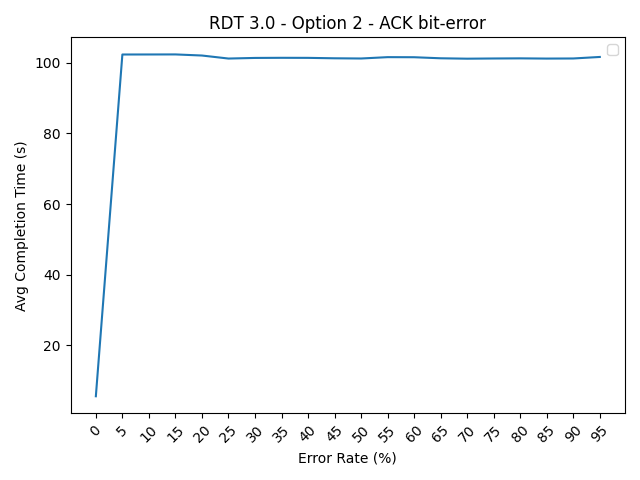
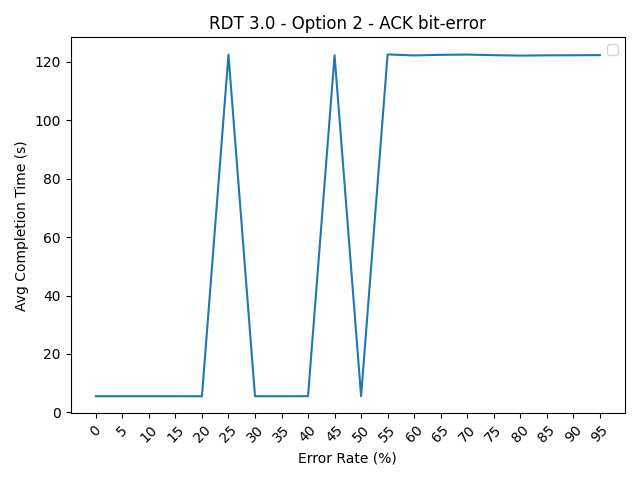
run 2 complete

diff --git a/project_folders/4_phase/src/main.py b/project_folders/4_phase/src/main.py
@@ -28,8 +28,8 @@ import plotter
 def run1():
     # Run Scenario 1 - No bit-error
     helper.main_log_print("Starting Scenario 1")
-    tx = sender()
-    rx = receiver()
+    tx = sender(helper.N)
+    rx = receiver(helper.N)
     tx_thread = threading.Thread(target=tx.run_tx_sc1)
     rx_thread = threading.Thread(target=rx.run_rx_sc1)
     rx_thread.start()
@@ -47,8 +47,8 @@ def run1():
 def run2(error_rate=0.0):
     # Run Scenario 2 - Ack packet bit-error
     helper.main_log_print("Starting Scenario 2")
-    tx2 = sender()
-    rx2 = receiver()
+    tx2 = sender(helper.N)
+    rx2 = receiver(helper.N)
     tx_thread = threading.Thread(target=tx2.run_tx_sc2, args=(error_rate,))
     rx_thread = threading.Thread(target=rx2.run_rx_sc2)
     rx_thread.start()
@@ -66,8 +66,8 @@ def run2(error_rate=0.0):
 def run3(error_rate=0.0):
     # Run Scenario 3 - Data packet bit-error
     helper.main_log_print("Starting Scenario 3 ")
-    tx3 = sender()
-    rx3 = receiver()
+    tx3 = sender(helper.N)
+    rx3 = receiver(helper.N)
     tx_thread = threading.Thread(target=tx3.run_tx_sc3)
     rx_thread = threading.Thread(target=rx3.run_rx_sc3, args=(error_rate,))
     rx_thread.start()
@@ -85,8 +85,8 @@ def run3(error_rate=0.0):
 def run4(error_rate=0.0):
     # Run Scenario 4 
     helper.main_log_print("Starting Scenario 4 ")
-    tx4 = sender()
-    rx4 = receiver()
+    tx4 = sender(helper.N)
+    rx4 = receiver(helper.N)
     tx_thread = threading.Thread(target=tx4.run_tx_sc4, args=(error_rate,))
     rx_thread = threading.Thread(target=rx4.run_rx_sc4)
     rx_thread.start()
@@ -104,8 +104,8 @@ def run4(error_rate=0.0):
 def run5(error_rate=0.0):
     # Run Scenario 5 - Data packet loss
     helper.main_log_print("Starting Scenario 5")
-    tx5 = sender()
-    rx5 = receiver()
+    tx5 = sender(helper.N)
+    rx5 = receiver(helper.N)
     tx_thread = threading.Thread(target=tx5.run_tx_sc5)
     rx_thread = threading.Thread(target=rx5.run_rx_sc5, args=(error_rate,))
     rx_thread.start()
@@ -120,12 +120,24 @@ def run5(error_rate=0.0):
     tx5.sender_socket.close()
     time.sleep(0.5)
 
+def run_recovery_demo():
+    # R13: demonstrate Phase 4 with and without loss recovery active, using Option 5
+    # (data packet loss). At 0% loss the recovery path never triggers; at 30% loss the
+    # countdown timer + Go-Back-N retransmit kick in. Both must reconstruct the image.
+    helper.main_log_print("Recovery demo: WITHOUT recovery (0% loss)")
+    run5(0.0)
+    helper.main_log_print("Recovery demo: WITH recovery (30% loss)")
+    run5(0.30)
+
 """ Entry """
 def main():
     # Clear output files
     with open(helper.log_path, 'w') as log_file:
         pass
     helper.main_log_print("Clearing all output logs")
+
+    # R17: silence per-packet [SENDER]/[RECEIVER] debug logs during timing sweeps
+    helper.verbose_packet_logs = False
 
     ## Run each scenario 5 times with their corresponding rates
     rates = [0.0, 0.05, 0.10, 0.15, 0.20, 0.25, 0.30, 0.35, 0.40, 
@@ -160,8 +172,11 @@ def main():
                     run5(error_rate)
                 plotter.generate_scenario_plot()
                 break
+            case "demo":
+                run_recovery_demo()
+                break
             case "test":
-                run1()
+                run2()
                 break
             case _: 
                 print("Invalid scenario number, try again")

diff --git a/project_folders/4_phase/src/receiver.py b/project_folders/4_phase/src/receiver.py
@@ -13,17 +13,23 @@ import helper
 import time
 
 class RECEIVER:
-    def __init__(self):
+    def __init__(self, N=None):
         # Self Vars
         self.full_pic = []
         self.expected_seq = 0
+
+        # Window size (the basic GBN receiver doesn't buffer out-of-order packets,
+        # but N is accepted for symmetry with the sender / window-size sweep)
+        self.N = N if N is not None else helper.N
 
         # Setup sockets 
         self.rx_socket = socket(AF_INET, SOCK_DGRAM)
         self.rx_socket.bind(('localhost', helper.receiver_port))
 
     def log_print(self, message):
-        # Writes a message to the output log
+        # Writes a message to the output log (silenced during timing runs, R17)
+        if not helper.verbose_packet_logs:
+            return
         with open(helper.log_path, 'a') as log_file:
             log_file.write(f"[RECEIVER] {message}\n")
 

diff --git a/project_folders/4_phase/src/sender.py b/project_folders/4_phase/src/sender.py
@@ -33,7 +33,9 @@ class SENDER:
         self.sender_socket = socket(AF_INET, SOCK_DGRAM)
 
     def log_print(self, message):
-        # Writes a message to the output log
+        # Writes a message to the output log (silenced during timing runs, R17)
+        if not helper.verbose_packet_logs:
+            return
         with open(helper.log_path, 'a') as log_file:
             log_file.write(f"[SENDER] {message}\n")
 
